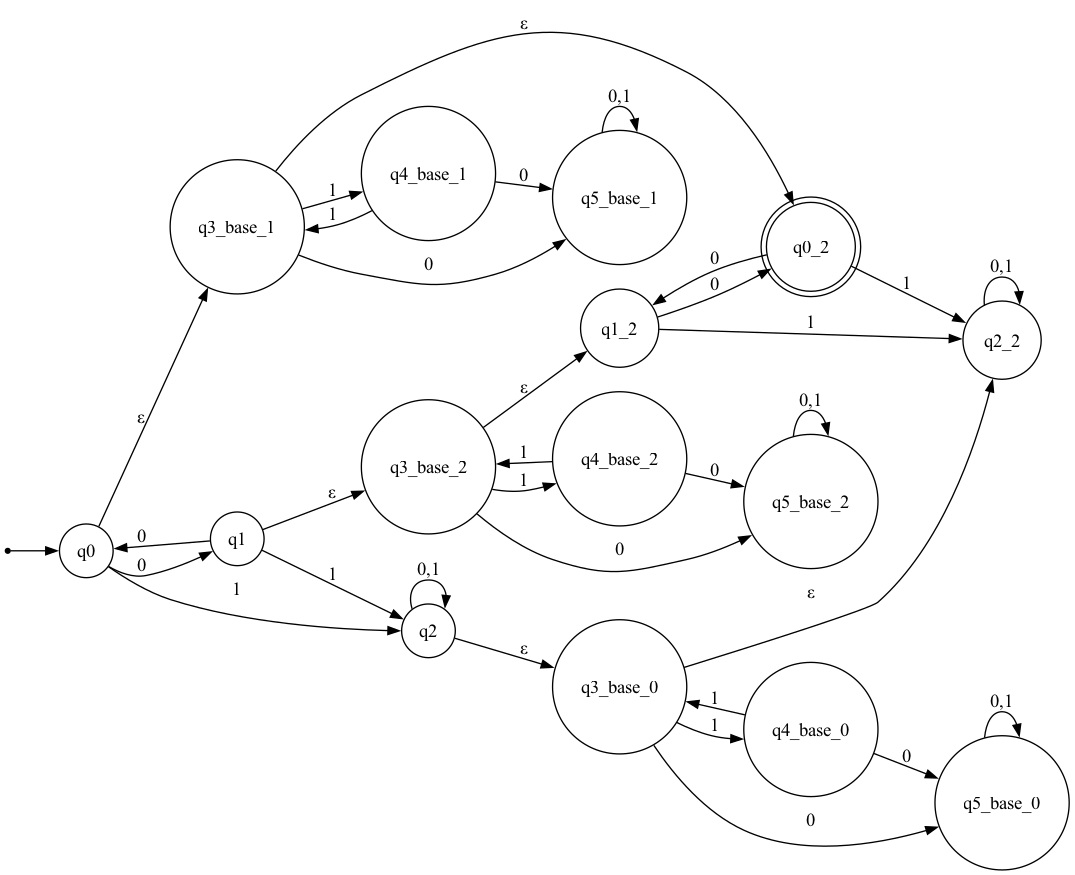
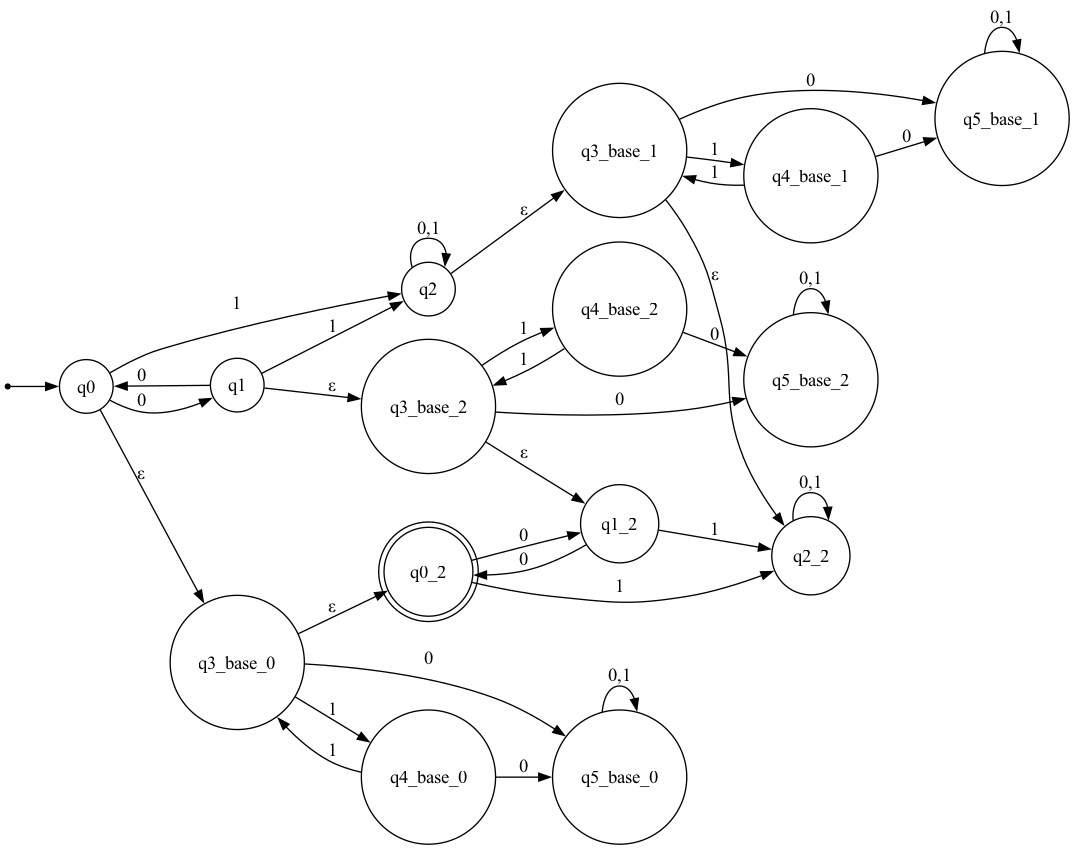
Finalise q2b again

diff --git a/q2.py b/q2.py
@@ -1,2 +1,97 @@
+from automata.fa.nfa import NFA
+from automata.fa.dfa import DFA
+
 def q2a() -> str:
     return '0'
+
+class NFAWrapper:
+    def __init__(self, initial_state: str, final_states: set[str]):
+        self.states = set()
+        self.input_symbols = set()
+        self.transitions = {}
+        self.initial_state = initial_state
+        self.final_states = final_states
+    
+    def add_transition(self, state_1, i, state_2):
+        # ensure that it is an initialised dictionary
+        if state_1 not in self.transitions:
+            self.transitions[state_1] = {}
+        # add the new transition into the nfa transition dictionary
+        if i in self.transitions[state_1]:
+            self.transitions[state_1][i].add(state_2)
+        else:
+            self.transitions[state_1][i] = {state_2}
+
+    def add_transitions(self, dfa_transitions):
+        for state, transition in dfa_transitions.items():
+            for i, t in transition.items():
+                # add the new transition into the nfa transition dictionary
+                self.add_transition(state, i, t)
+
+    def update_dfa(self, dfa: DFA):
+        self.states.update(dfa.states)
+        self.input_symbols.update(dfa.input_symbols)
+        self.add_transitions(dfa.transitions)
+    
+    def get_nfa(self) -> NFA:
+        return NFA(
+            states=self.states,
+            input_symbols=self.input_symbols,
+            transitions=self.transitions,
+            initial_state=self.initial_state,
+            final_states=self.final_states,
+        )
+
+def suffix_item(thing, suffix):
+    return f'{thing}_{suffix}'
+
+def suffix_list(original, suffix):
+    return [suffix_item(thing, suffix) for thing in original]
+
+def suffix_set(original, suffix):
+    return set(suffix_list(original, suffix))
+
+def suffix_transitions(original, suffix):
+    new_transitions = {}
+    for state, transitions in original.items():
+        suffixed = suffix_item(state, suffix)
+        new_transitions[suffixed] = {}
+        for i, t in transitions.items():
+            new_transitions[suffixed][i] = suffix_item(t, suffix)
+    return new_transitions
+
+def clone(dfa: DFA, suffix: str) -> DFA:
+    return DFA(
+        states=suffix_set(dfa.states, suffix),
+        input_symbols=dfa.input_symbols,
+        transitions=suffix_transitions(dfa.transitions, suffix),
+        initial_state=suffix_item(dfa.initial_state, suffix),
+        final_states=suffix_set(dfa.final_states, suffix),
+    )
+
+def q2b(a: DFA, b: DFA) -> NFA:
+    # Create a secondary a and a new base for b
+    a_2 = clone(a, '2')
+    b_base = clone(b, 'base')
+
+    # Initialse the NFA's parameters
+    nfa_wrapper = NFAWrapper(a.initial_state, a_2.final_states)
+    nfa_wrapper.update_dfa(a)
+    nfa_wrapper.update_dfa(a_2)
+
+    suffix = 0
+    for state in a.states:
+        # Create a clone of b_base
+        b_branch = clone(b_base, suffix)
+
+        nfa_wrapper.update_dfa(b_branch)
+
+        # Create an epsilon transition from the current state to the start state of the branch
+        nfa_wrapper.add_transition(state, '', b_branch.initial_state)
+
+        # Create an epsilon transition from the final state of the branch to the corresponding state of a2
+        for final_state in b_branch.final_states:
+            nfa_wrapper.add_transition(final_state, '', suffix_item(state, '2'))
+        suffix += 1
+    
+    return nfa_wrapper.get_nfa()

diff --git a/q2_work.py b/q2_work.py
@@ -29,40 +29,8 @@ nfa.show_diagram().draw('q2a.png')
 assert(nfa.accepts_input(q2a()))
 assert(issubset(q2a(), q2a_regex) == False)
 
-
-dfa1 = DFA(
-    states={'q0', 'q1', 'q2'},
-    input_symbols={'0', '1'},
-    transitions={
-        'q0': {'0': 'q1', '1': 'q2'},
-        'q1': {'0': 'q0', '1': 'q2'},
-        'q2': {'0': 'q2', '1': 'q2'},
-    },
-    initial_state='q0',
-    final_states={'q0'}
-)
-
-dfa2 = DFA(
-    states={'q3', 'q4', 'q5'},
-    input_symbols={'0', '1'},
-    transitions={
-        'q3': {'0': 'q5', '1': 'q4'},
-        'q4': {'0': 'q5', '1': 'q3'},
-        'q5': {'0': 'q5', '1': 'q5'},
-    },
-    initial_state='q3',
-    final_states={'q3'}
-)
-
 # dfa1.show_diagram().draw('q2a_dfa1.png')
 # dfa1.show_diagram().draw('q2a_dfa2.png')
-
-inputs = {
-    '001100': True,
-    '0011110000': True,
-    '0': False,
-    '01': False,
-}
 
 class NFAWrapper:
     def __init__(self, initial_state: str, final_states: set[str]):
@@ -156,8 +124,42 @@ def q2b(a: DFA, b: DFA) -> NFA:
     
     return nfa_wrapper.get_nfa()
 
+dfa1 = DFA(
+    states={'q0', 'q1', 'q2'},
+    input_symbols={'0', '1'},
+    transitions={
+        'q0': {'0': 'q1', '1': 'q2'},
+        'q1': {'0': 'q0', '1': 'q2'},
+        'q2': {'0': 'q2', '1': 'q2'},
+    },
+    initial_state='q0',
+    final_states={'q0'}
+)
+
+dfa2 = DFA(
+    states={'q3', 'q4', 'q5'},
+    input_symbols={'0', '1'},
+    transitions={
+        'q3': {'0': 'q5', '1': 'q4'},
+        'q4': {'0': 'q5', '1': 'q3'},
+        'q5': {'0': 'q5', '1': 'q5'},
+    },
+    initial_state='q3',
+    final_states={'q3'}
+)
+
+inputs = {
+    '001100': True,
+    '0011110000': True,
+    '0': False,
+    '01': False,
+    '0001100': False,
+}
 
 nfa = q2b(dfa1, dfa2)
 
 # Testing for sanity
 nfa.show_diagram().draw('q2b.png')
+
+for test in inputs:
+    assert(nfa.accepts_input(test) == inputs[test])
